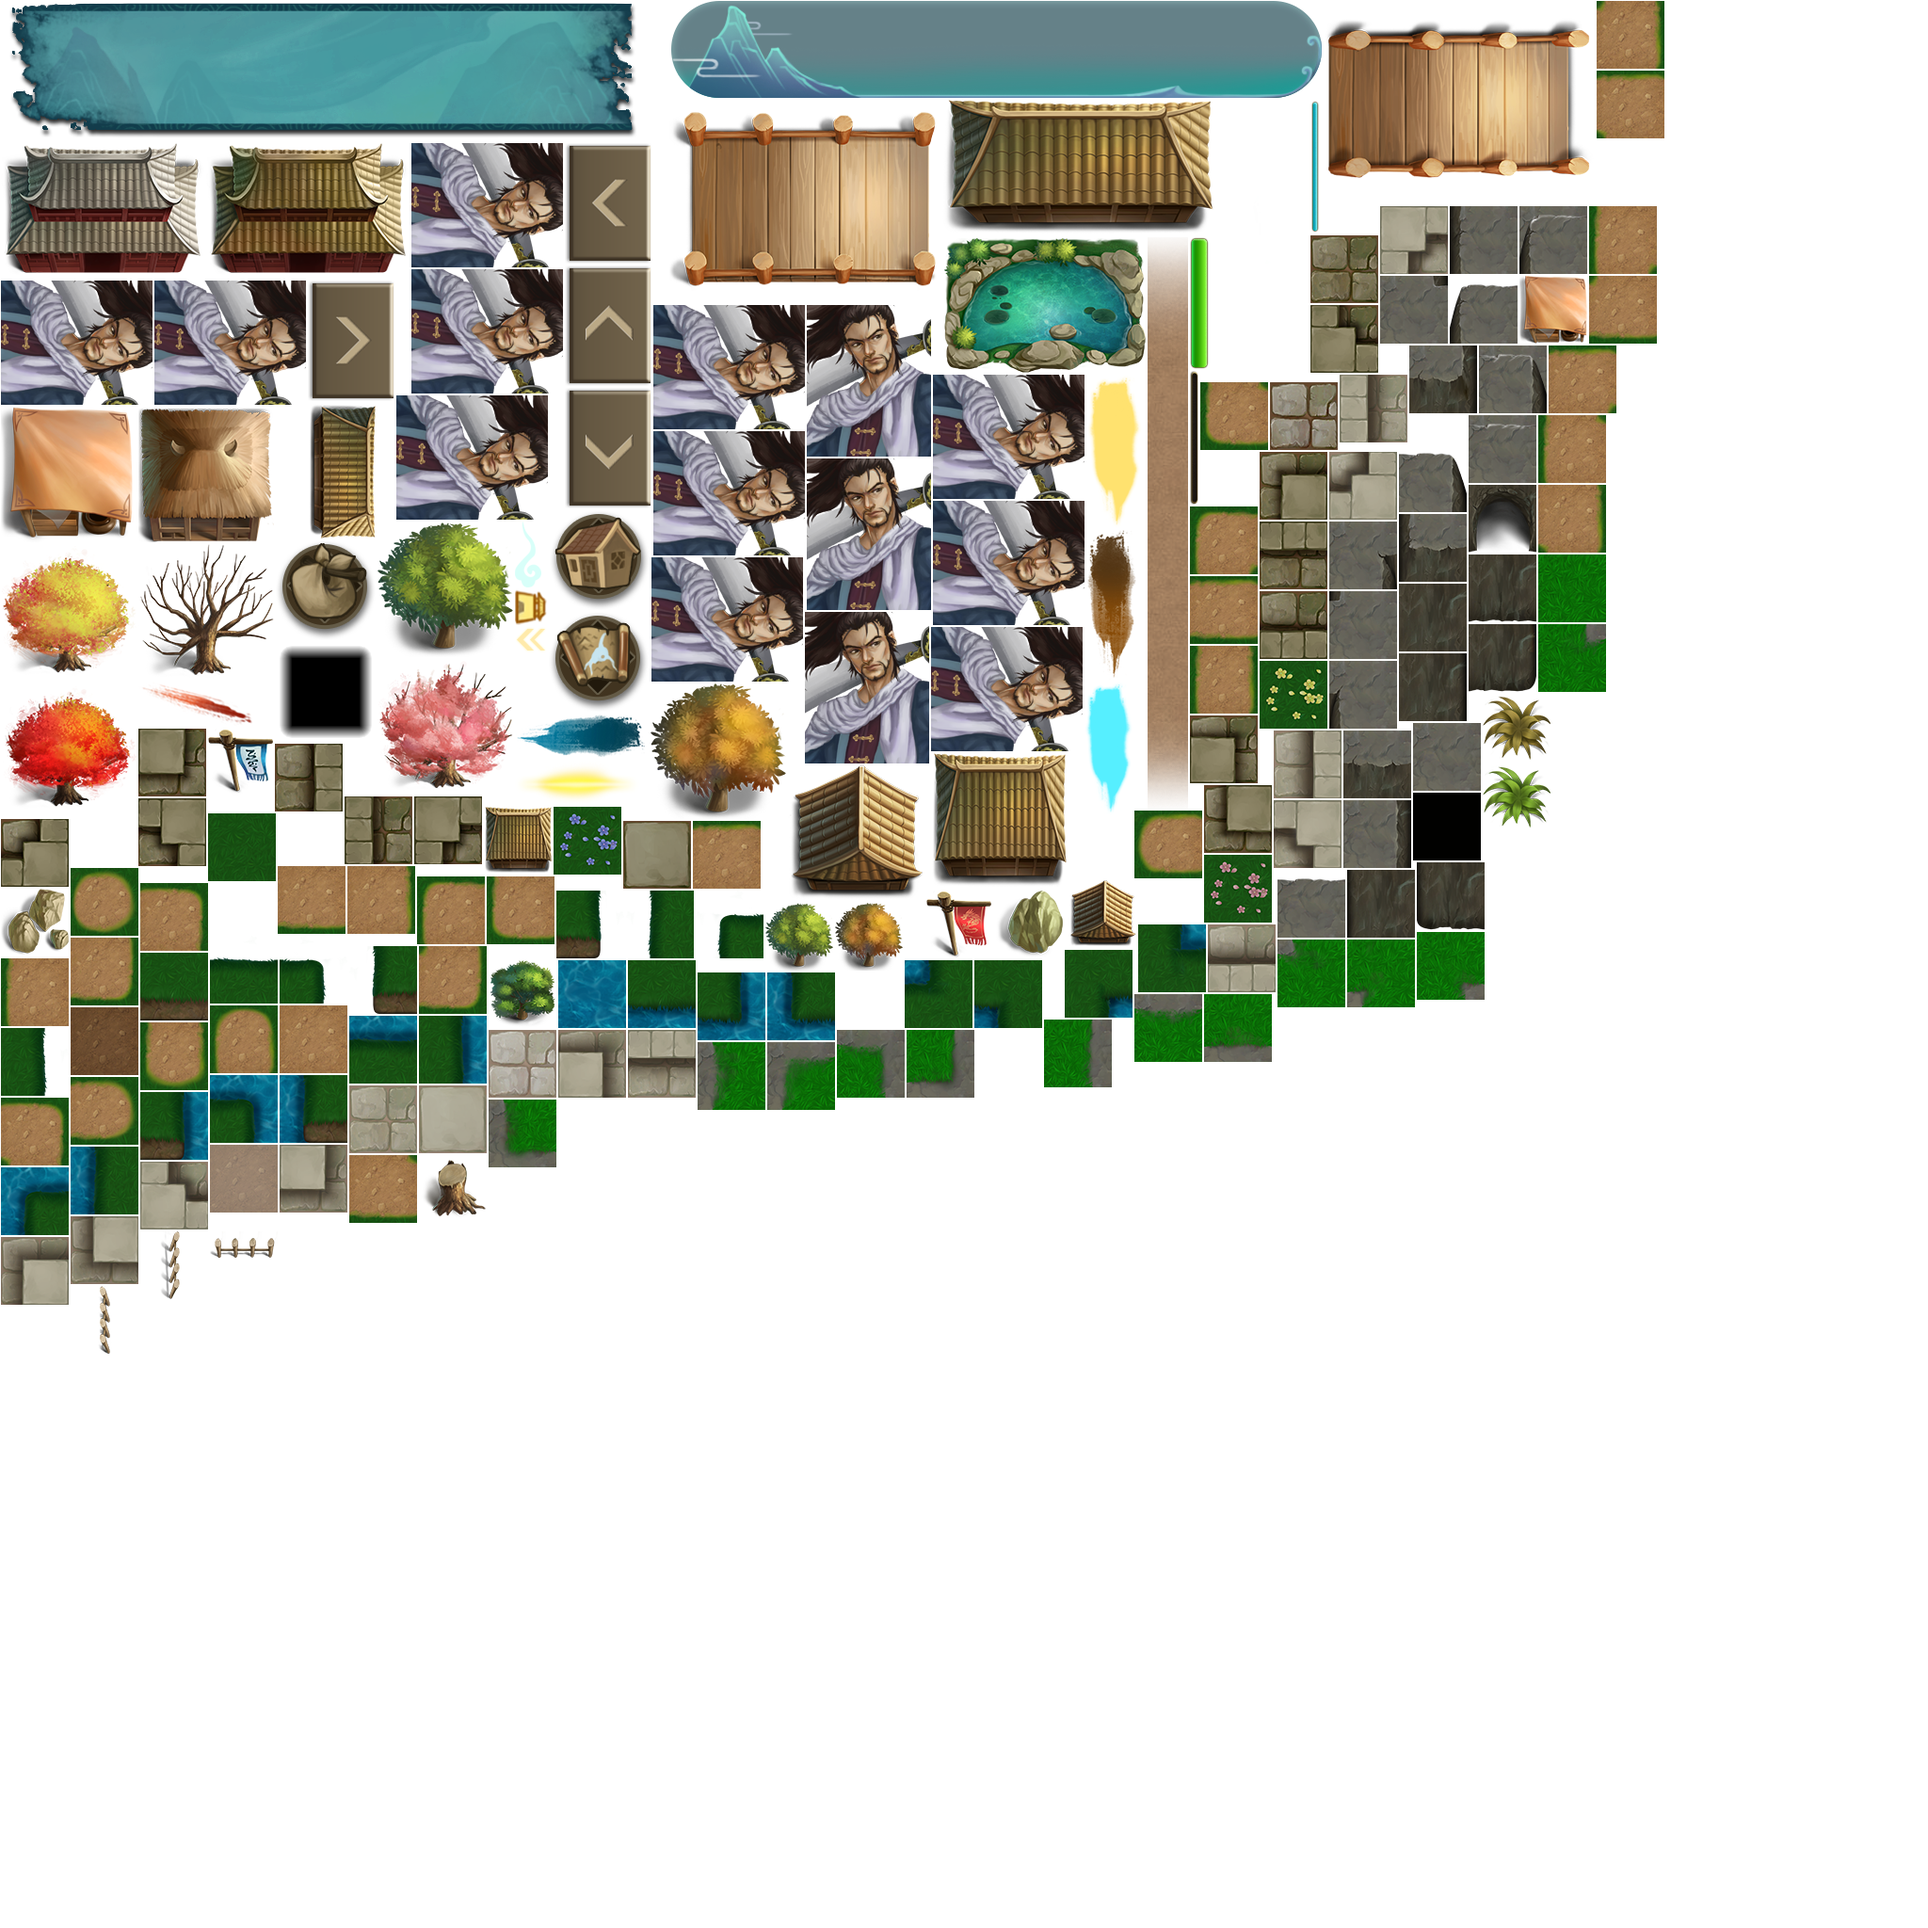
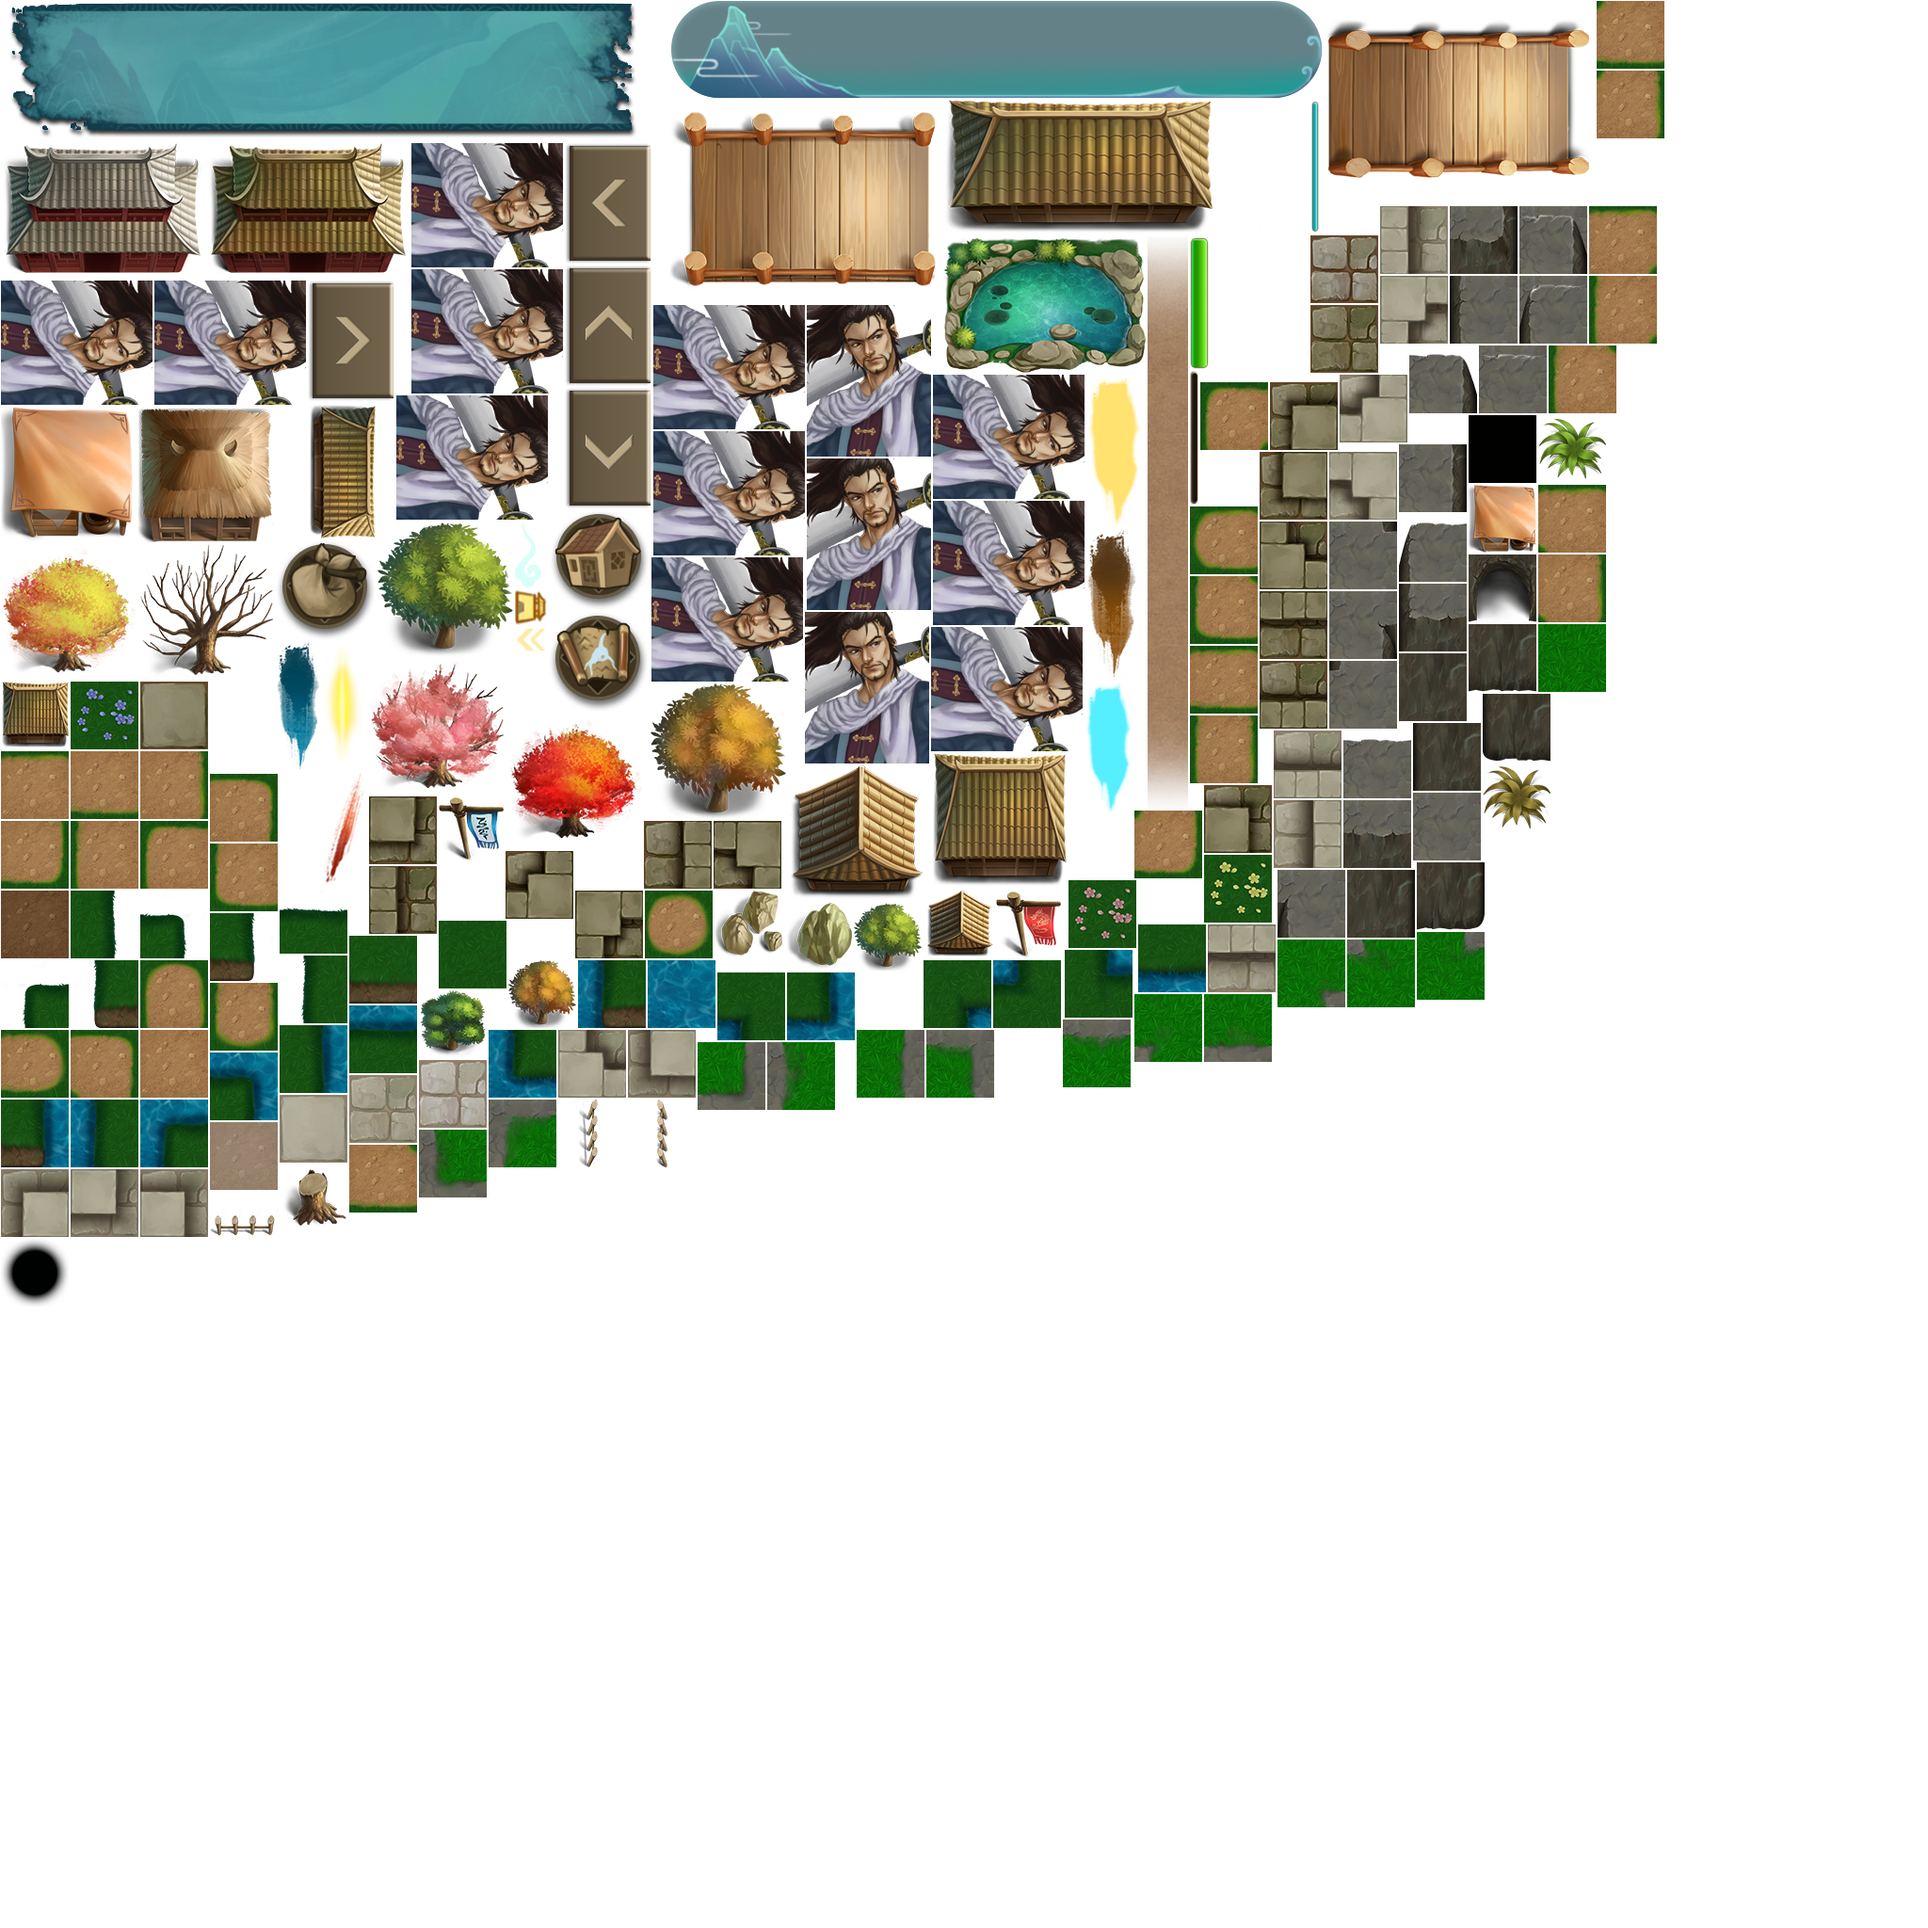
迷雾资源打包到大图plist

Changed region(s): [[0.0, 0.0938, 0.8438, 0.6875], [0.8125, 0.0, 0.875, 0.0625]]

diff --git a/Classes/MapBlockScene.cpp b/Classes/MapBlockScene.cpp
@@ -31,6 +31,7 @@ MapBlockScene::MapBlockScene()
 	m_longTouchNode = NULL;
 	walkcount = 0;
 	monsterComeRnd = DEFAULTRND;
+	fogscale = 4.0f;
 }
 
 
@@ -503,11 +504,11 @@ void MapBlockScene::createMyRender()
 
 	_myrender->beginWithClear(0, 0, 0, 0.5f, 0, 0);
 
-	_mylight = Sprite::create("fog.png");
+	_mylight = Sprite::createWithSpriteFrameName("mapui/fog.png");
 	_mylight->setBlendFunc({ GL_ZERO, GL_ONE_MINUS_SRC_ALPHA });
 	_mylight->setAnchorPoint(Vec2(0.5, 0.5));
 	_mylight->setPosition(myposParticle->getPosition());
-	_mylight->setScale(4);
+	_mylight->setScale(fogscale);
 	_myrender->addChild(_mylight);
 	_mylight->visit();
 	_myrender->end();
@@ -560,11 +561,11 @@ void MapBlockScene::updateFog(float dt)
 
 void MapBlockScene::addFogBlock(int row, int col)
 {
-	Sprite * sp = Sprite::create("fog.png");
+	Sprite * sp = Sprite::createWithSpriteFrameName("mapui/fog.png");
 	sp->setBlendFunc({ GL_ZERO, GL_ONE_MINUS_SRC_ALPHA });
 	sp->setAnchorPoint(Vec2(0.5, 0.5));
 	sp->setPosition(Vec2(col*MAPBLOCKWIDTH + MAPBLOCKWIDTH / 2, row*MAPBLOCKHEIGHT + MAPBLOCKHEIGHT / 2));
-	sp->setScale(4);
+	sp->setScale(fogscale);
 	_fogrender->addChild(sp);
 	sp->visit();
 }

diff --git a/Classes/MapBlockScene.h b/Classes/MapBlockScene.h
@@ -135,6 +135,7 @@ private:
 	RenderTexture* _fogrender;
 	RenderTexture* _myrender;
 	Sprite* _mylight;
+	float fogscale;
 };
 extern MapBlockScene* g_MapBlockScene;
 #endif
